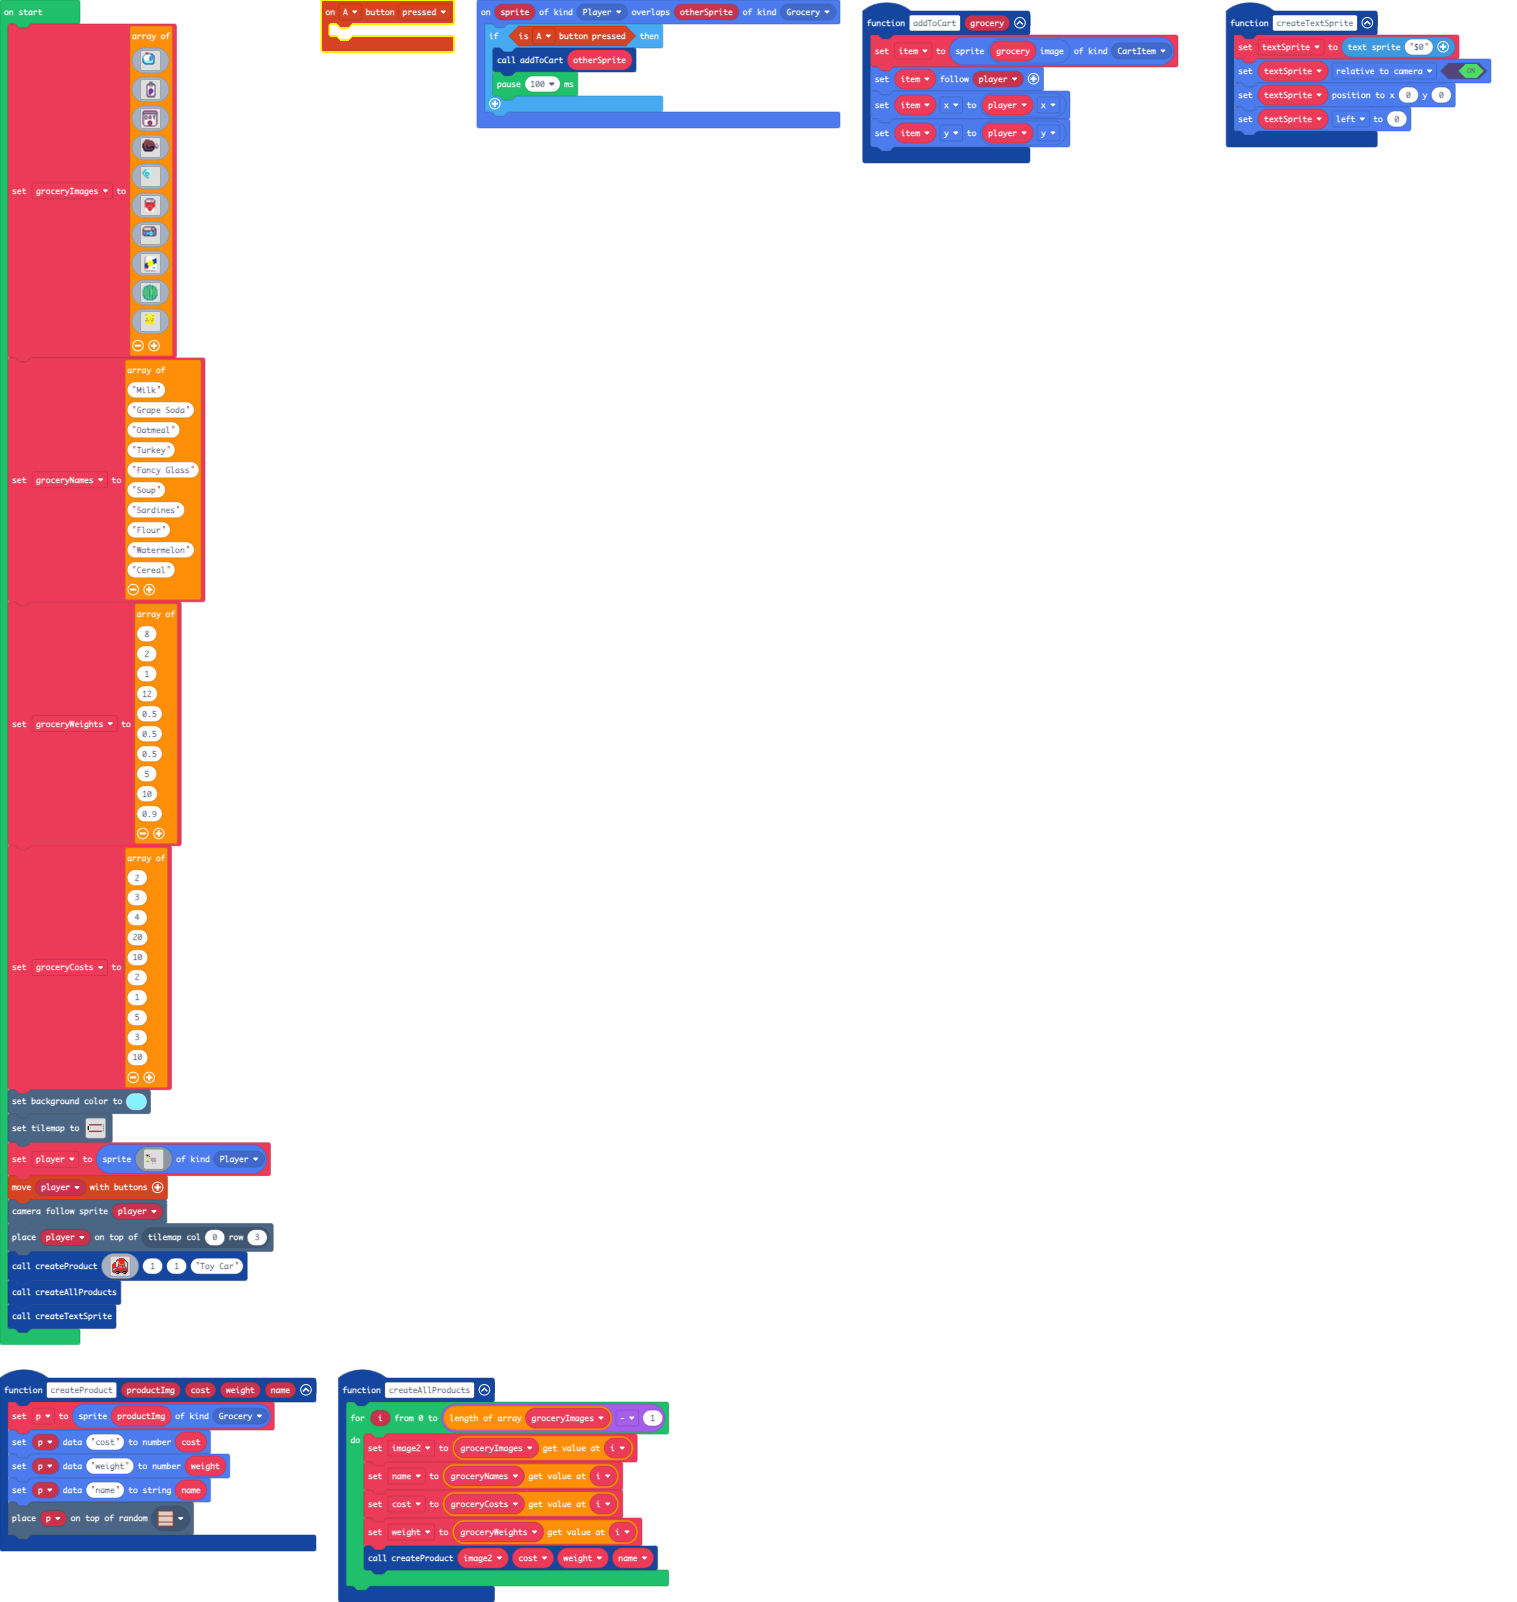
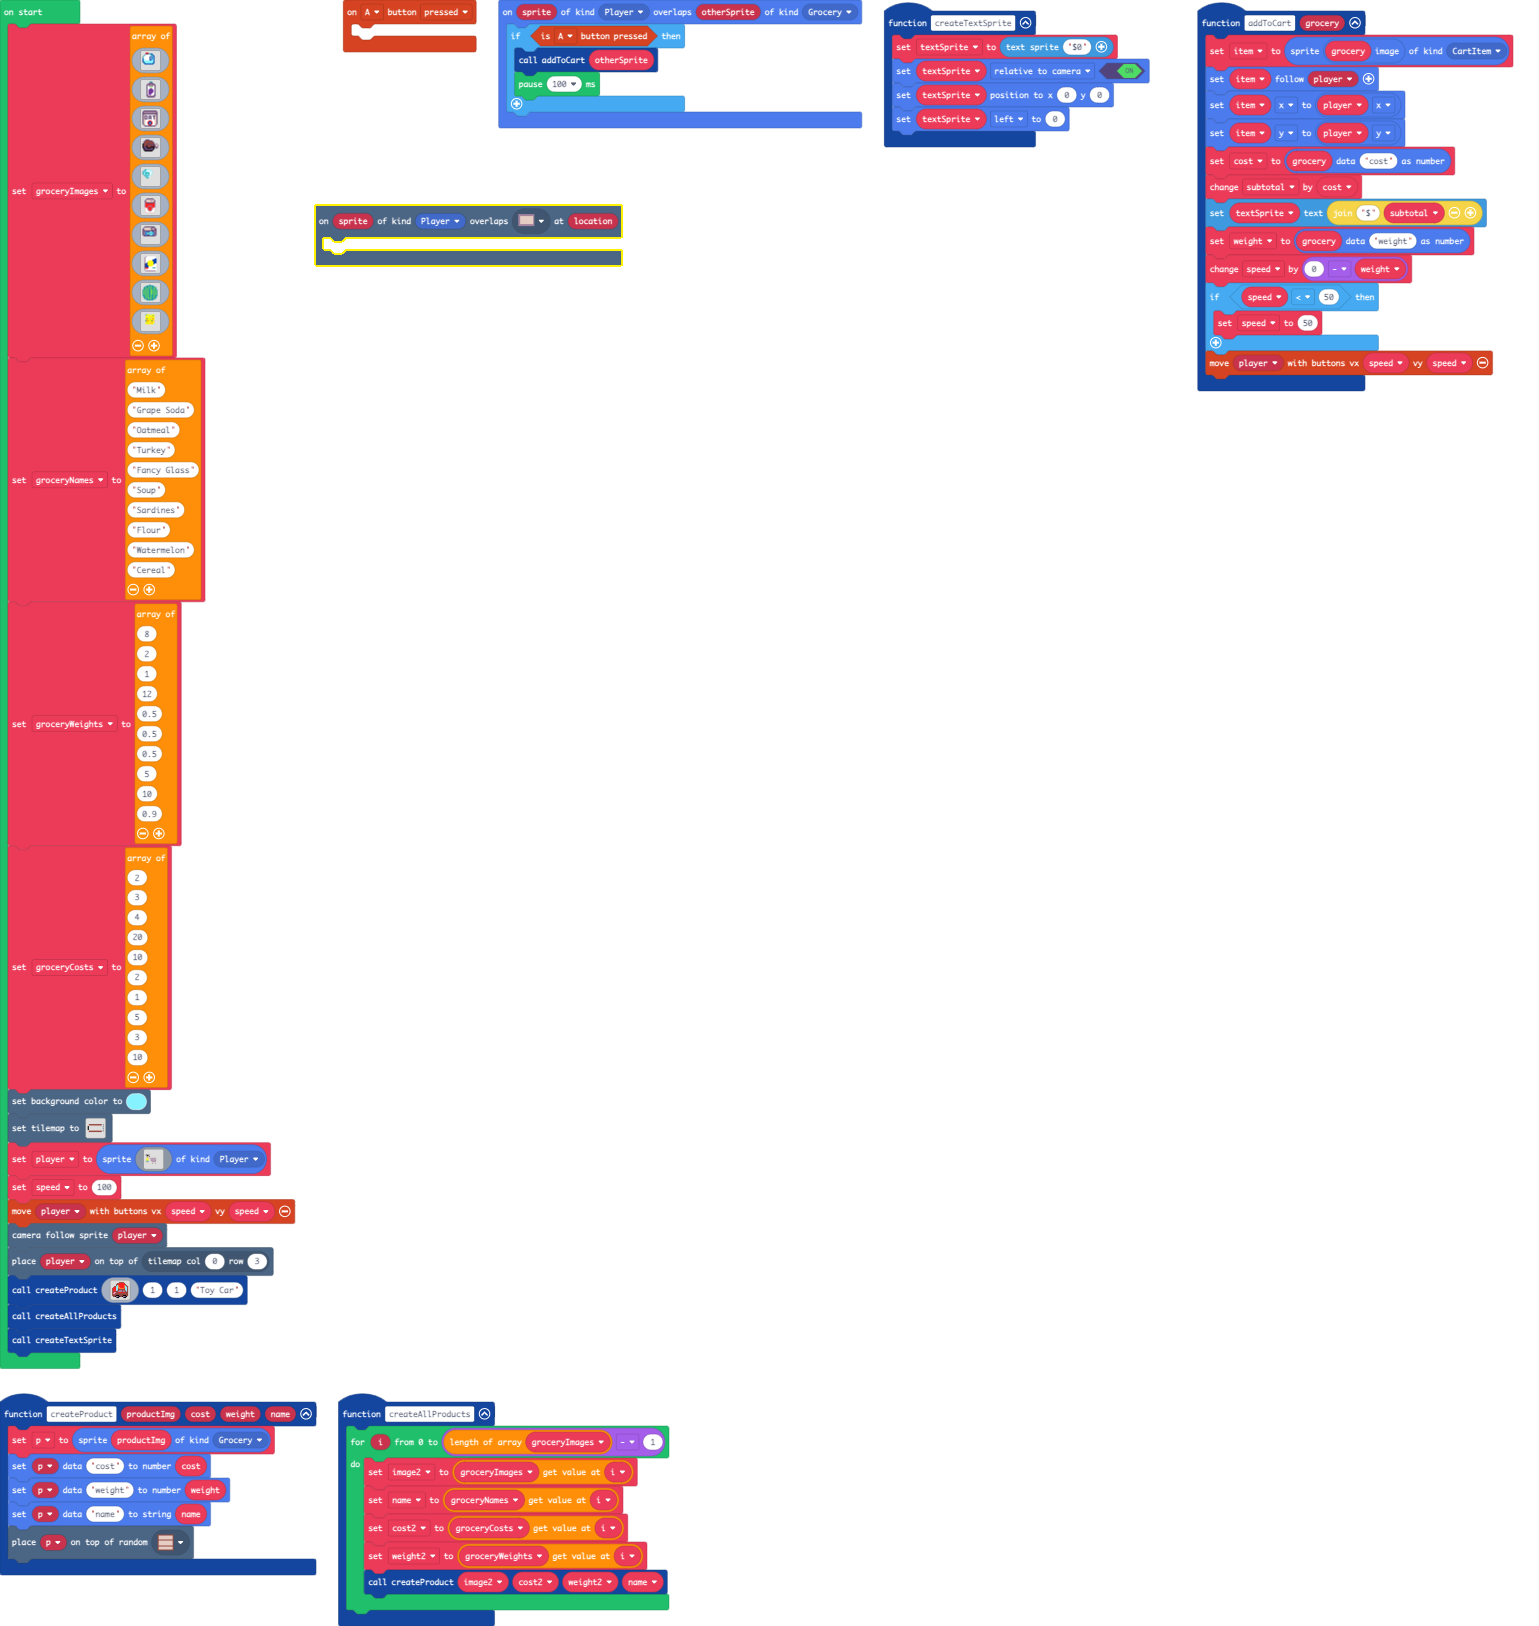
Update main.blocks, main.ts, tilemap.g.jres, tilemap.g.ts

Changed region(s): [[0.0, 0.0, 0.4647, 1.0], [0.1859, 0.0, 0.9914, 0.2497], [0.1859, 0.1248, 0.4028, 0.1873]]

diff --git a/main.ts b/main.ts
@@ -17,15 +17,27 @@ function createTextSprite () {
     textSprite.setPosition(0, 0)
     textSprite.left = 0
 }
+scene.onOverlapTile(SpriteKind.Player, assets.tile`tile10`, function (sprite, location) {
+	let display = " Subtotal: $" + subtotal
+    game.showLongText(display, DialogLayout.Center)
+
+    info.setScore(subtotal)
+    game.over(true)
+})
 function addToCart (grocery: Sprite) {
     item = sprites.create(grocery.image, SpriteKind.CartItem)
     item.follow(player)
     item.x = player.x
     item.y = player.y
-
-    let cost = sprites.readDataNumber(grocery, "cost")
+    cost = sprites.readDataNumber(grocery, "cost")
     subtotal += cost
     textSprite.setText("$" + subtotal)
+    weight = sprites.readDataNumber(grocery, "weight")
+    speed += 0 - weight
+    if (speed < 50) {
+        speed = 50
+    }
+    controller.moveSprite(player, speed, speed)
 }
 function createProduct (productImg: Image, cost: number, weight: number, name: string) {
     p = sprites.create(productImg, SpriteKind.Grocery)
@@ -33,25 +45,27 @@ function createProduct (productImg: Image, cost: number, weight: number, name: s
     sprites.setDataNumber(p, "weight", weight)
     sprites.setDataString(p, "name", name)
     tiles.placeOnRandomTile(p, assets.tile`tile1`)
-
-  
 }
 function createAllProducts () {
     for (let i = 0; i <= groceryImages.length - 1; i++) {
         image2 = groceryImages[i]
         name = groceryNames[i]
-        cost = groceryCosts[i]
-        weight = groceryWeights[i]
-        createProduct(image2, cost, weight, name)
+        cost2 = groceryCosts[i]
+        weight2 = groceryWeights[i]
+        createProduct(image2, cost2, weight2, name)
     }
 }
-let weight = 0
-let cost = 0
+let weight2 = 0
+let cost2 = 0
 let name = ""
 let image2: Image = null
 let p: Sprite = null
+let weight = 0
+let subtotal = 0
+let cost = 0
 let item: Sprite = null
 let textSprite: TextSprite = null
+let speed = 0
 let player: Sprite = null
 let groceryCosts: number[] = []
 let groceryWeights: number[] = []
@@ -278,7 +292,8 @@ player = sprites.create(img`
     .d..d......ddddddd...........
     .d..dd......c....c...........
     `, SpriteKind.Player)
-controller.moveSprite(player)
+speed = 100
+controller.moveSprite(player, speed, speed)
 scene.cameraFollowSprite(player)
 tiles.placeOnTile(player, tiles.getTileLocation(0, 3))
 createProduct(img`
@@ -301,4 +316,3 @@ createProduct(img`
     `, 1, 1, "Toy Car")
 createAllProducts()
 createTextSprite()
-let subtotal = 0

diff --git a/tilemap.g.ts b/tilemap.g.ts
@@ -25,15 +25,34 @@ namespace myTiles {
 
     helpers._registerFactory("tilemap", function(name: string) {
         switch(helpers.stringTrim(name)) {
+            case "level1":
+            case "level1":return tiles.createTilemap(hex`1000100000000000000000000000000000000000000000000000000000000000000000000000000000000000000000000000000000000000000000000000000000000000000000000000000000000000000000000000000000000000000000000000000000000000000000000000000000000000000000000000000000000000000000000000000000000000000000000000000000000000000000000000000000000000000000000000000000000000000000000000000000000000000000000000000000000000000000000000000000000000000000000000000000000000000000000000000000000000000000000000000000000000000000000000000000000000`, img`
+. . . . . . . . . . . . . . . . 
+. . . . . . . . . . . . . . . . 
+. . . . . . . . . . . . . . . . 
+. . . . . . . . . . . . . . . . 
+. . . . . . . . . . . . . . . . 
+. . . . . . . . . . . . . . . . 
+. . . . . . . . . . . . . . . . 
+. . . . . . . . . . . . . . . . 
+. . . . . . . . . . . . . . . . 
+. . . . . . . . . . . . . . . . 
+. . . . . . . . . . . . . . . . 
+. . . . . . . . . . . . . . . . 
+. . . . . . . . . . . . . . . . 
+. . . . . . . . . . . . . . . . 
+. . . . . . . . . . . . . . . . 
+. . . . . . . . . . . . . . . . 
+`, [myTiles.transparency16], TileScale.Sixteen);
             case "level":
             case "level":return tiles.createTilemap(hex`100008000003020202020202020202020204000700010101010101010101010101010009080000000000000000000000000000070800000000000000000000000000000908000000000000000000000000000007080000000000000000000000000000090001010101010101010101010101000700050202020202020202020202060009`, img`
-. 2 2 2 2 2 2 2 2 2 2 2 2 2 . 2 
+. 2 2 2 2 2 2 2 2 2 2 2 2 2 . . 
 . . . . . . . . . . . . . . . . 
-. . . . . . . . . . . . . . . 2 
 . . . . . . . . . . . . . . . . 
-. . . . . . . . . . . . . . . 2 
 . . . . . . . . . . . . . . . . 
-. . . . . . . . . . . . . . . 2 
+. . . . . . . . . . . . . . . . 
+. . . . . . . . . . . . . . . . 
+. . . . . . . . . . . . . . . . 
 . 2 2 2 2 2 2 2 2 2 2 2 2 2 . . 
 `, [myTiles.transparency16,myTiles.tile1,myTiles.tile2,myTiles.tile3,myTiles.tile4,myTiles.tile5,myTiles.tile6,myTiles.tile7,myTiles.tile8,myTiles.tile10], TileScale.Sixteen);
         }
